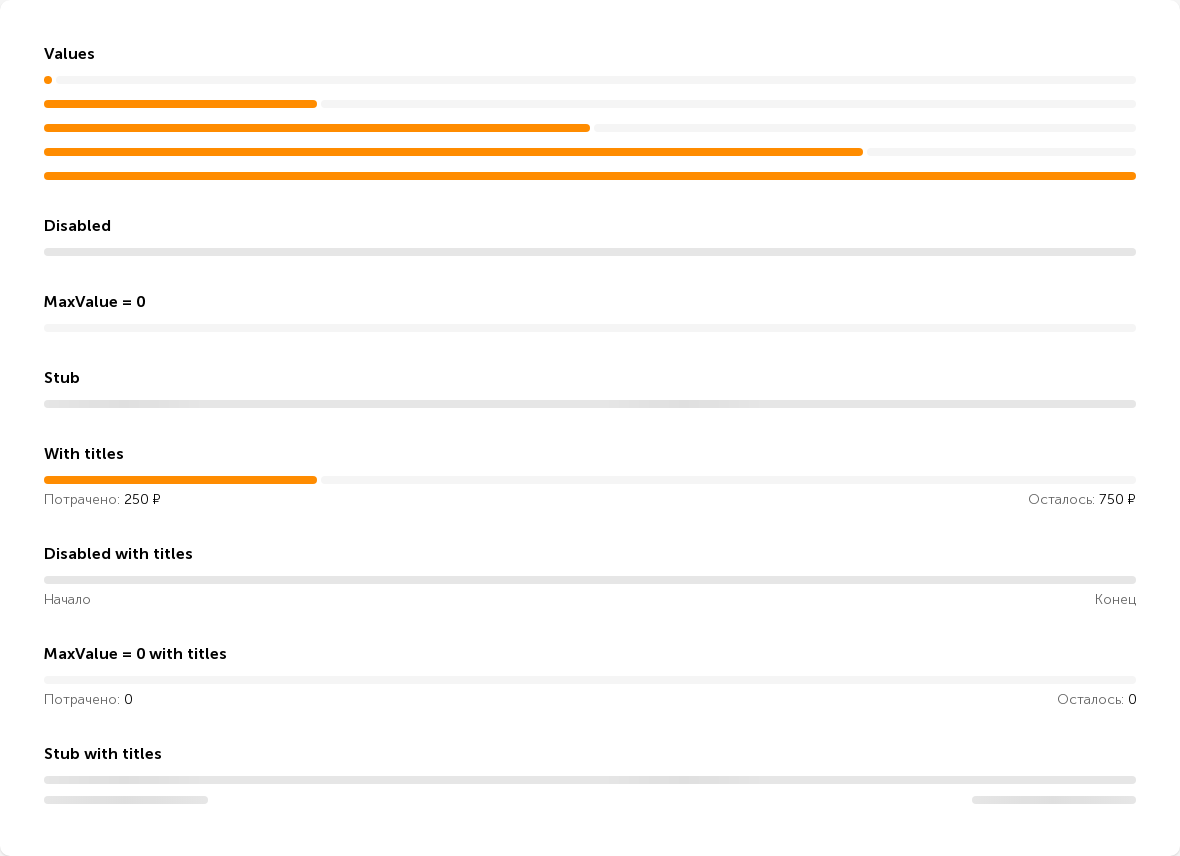
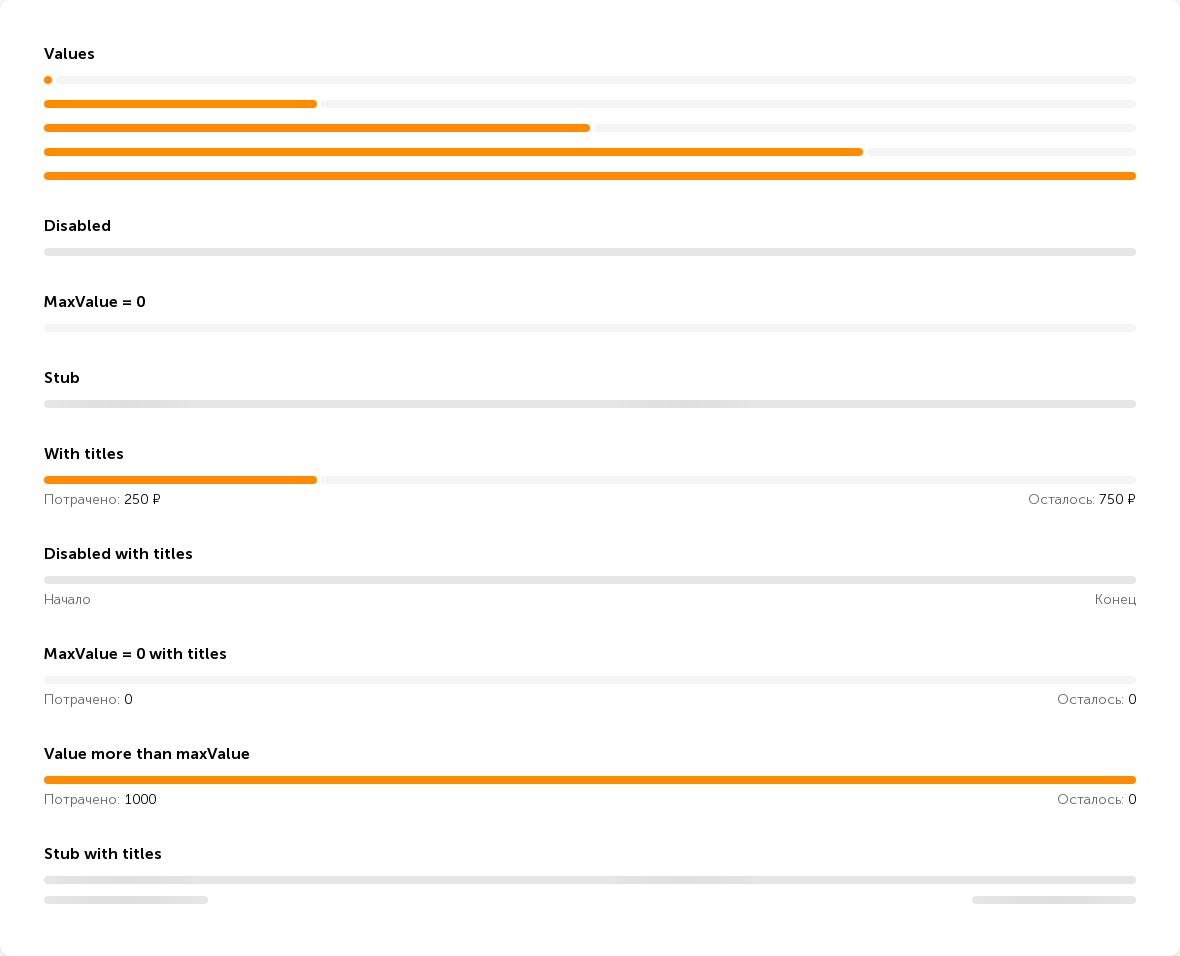
fix(extended-progress-bar): corner-case with value more than maxValue (#552)

diff --git a/packages/mobile/src/main/ts/extended-progress-bar/ExtendedProgressBar.tsx b/packages/mobile/src/main/ts/extended-progress-bar/ExtendedProgressBar.tsx
@@ -21,7 +21,7 @@ export const ExtendedProgressBar: FC<ExtendedProgressBarProps> = ({
   titleEnd,
   disabled = false,
   stub = false,
-  formatValue,
+  formatValue = v => v,
 }) => (
   <Spacer size="xxs">
     {titleStart || titleEnd ? (
@@ -33,13 +33,7 @@ export const ExtendedProgressBar: FC<ExtendedProgressBarProps> = ({
               bold={false}
               stub={stub}
               display={stub ? 'block' : undefined}
-              children={stub ? (
-                undefined
-              ) : formatValue !== undefined ? (
-                formatValue(value)
-              ) : (
-                value
-              )}
+              children={stub ? undefined : formatValue(value)}
               compact
             />
           ) : (
@@ -53,13 +47,7 @@ export const ExtendedProgressBar: FC<ExtendedProgressBarProps> = ({
               bold={false}
               stub={stub}
               display={stub ? 'block' : undefined}
-              children={stub ? (
-                undefined
-              ) : formatValue !== undefined ? (
-                formatValue(maxValue - value)
-              ) : (
-                maxValue - value
-              )}
+              children={stub ? undefined : formatValue(Math.max(maxValue - value, 0))}
               compact
             />
           ) : (
@@ -72,7 +60,7 @@ export const ExtendedProgressBar: FC<ExtendedProgressBarProps> = ({
     )}
     <Flex>
       <FlexItem
-        width={stub || disabled || maxValue === 0 ? 1 : value / maxValue}
+        width={stub || disabled || maxValue === 0 || value >= maxValue ? 1 : value / maxValue}
         minWidth="4px"
         transition="width 300ms cubic-bezier(0.4, 0.0, 0.2, 1)"
         children={stub ? (

diff --git a/packages/desktop/src/main/ts/extended-progress-bar/ExtendedProgressBar.tsx b/packages/desktop/src/main/ts/extended-progress-bar/ExtendedProgressBar.tsx
@@ -21,12 +21,12 @@ export const ExtendedProgressBar: FC<ExtendedProgressBarProps> = ({
   titleEnd,
   stub = false,
   disabled = false,
-  formatValue,
+  formatValue = v => v,
 }) => (
   <Spacer size="xs">
     <Flex>
       <FlexItem
-        width={stub || disabled || maxValue === 0 ? 1 : value / maxValue}
+        width={stub || disabled || maxValue === 0 || value >= maxValue ? 1 : value / maxValue}
         minWidth={2}
         transition="width 300ms cubic-bezier(0.4, 0.0, 0.2, 1)"
         children={stub ? (
@@ -57,9 +57,7 @@ export const ExtendedProgressBar: FC<ExtendedProgressBarProps> = ({
             <Paragraph size="s" compact>
               <Text color="support">{titleStart}{value !== undefined ? ': ' : ''}</Text>
               {value !== undefined ? (
-                <Text>
-                  {formatValue !== undefined ? formatValue(value) : value}
-                </Text>
+                <Text children={formatValue(value)}/>
               ) : (
                 null
               )}
@@ -77,9 +75,7 @@ export const ExtendedProgressBar: FC<ExtendedProgressBarProps> = ({
                 {titleEnd}{value !== undefined && maxValue !== undefined ? ': ' : ''}
               </Text>
               {value !== undefined && maxValue !== undefined ? (
-                <Text>
-                  {formatValue !== undefined ? formatValue(maxValue - value) : maxValue - value}
-                </Text>
+                <Text children={formatValue(Math.max(maxValue - value, 0))}/>
               ) : (
                 null
               )}

diff --git a/packages/desktop/src/main/ts/extended-progress-bar/ExtendedProgressBar.md b/packages/desktop/src/main/ts/extended-progress-bar/ExtendedProgressBar.md
@@ -52,6 +52,15 @@
         />
       </Spacer>
       <Spacer size="s">
+        <Heading size={5}>Value more than maxValue</Heading>
+        <ExtendedProgressBar
+          value={1000}
+          maxValue={400}
+          titleStart="Потрачено"
+          titleEnd="Осталось"
+        />
+      </Spacer>
+      <Spacer size="s">
         <Heading size={5}>Stub with titles</Heading>
         <ExtendedProgressBar stub titleStart="stub" titleEnd="stub" />
       </Spacer>

diff --git a/packages/mobile/src/main/ts/extended-progress-bar/ExtendedProgressBar.md b/packages/mobile/src/main/ts/extended-progress-bar/ExtendedProgressBar.md
@@ -52,6 +52,15 @@
         />
       </Spacer>
       <Spacer size="s">
+        <Heading size={5}>Value more than maxValue</Heading>
+        <ExtendedProgressBar
+          value={1000}
+          maxValue={400}
+          titleStart="Потрачено"
+          titleEnd="Осталось"
+        />
+      </Spacer>
+      <Spacer size="s">
         <Heading size={5}>Stub with titles</Heading>
         <ExtendedProgressBar stub titleStart="stub" titleEnd="stub" />
       </Spacer>
